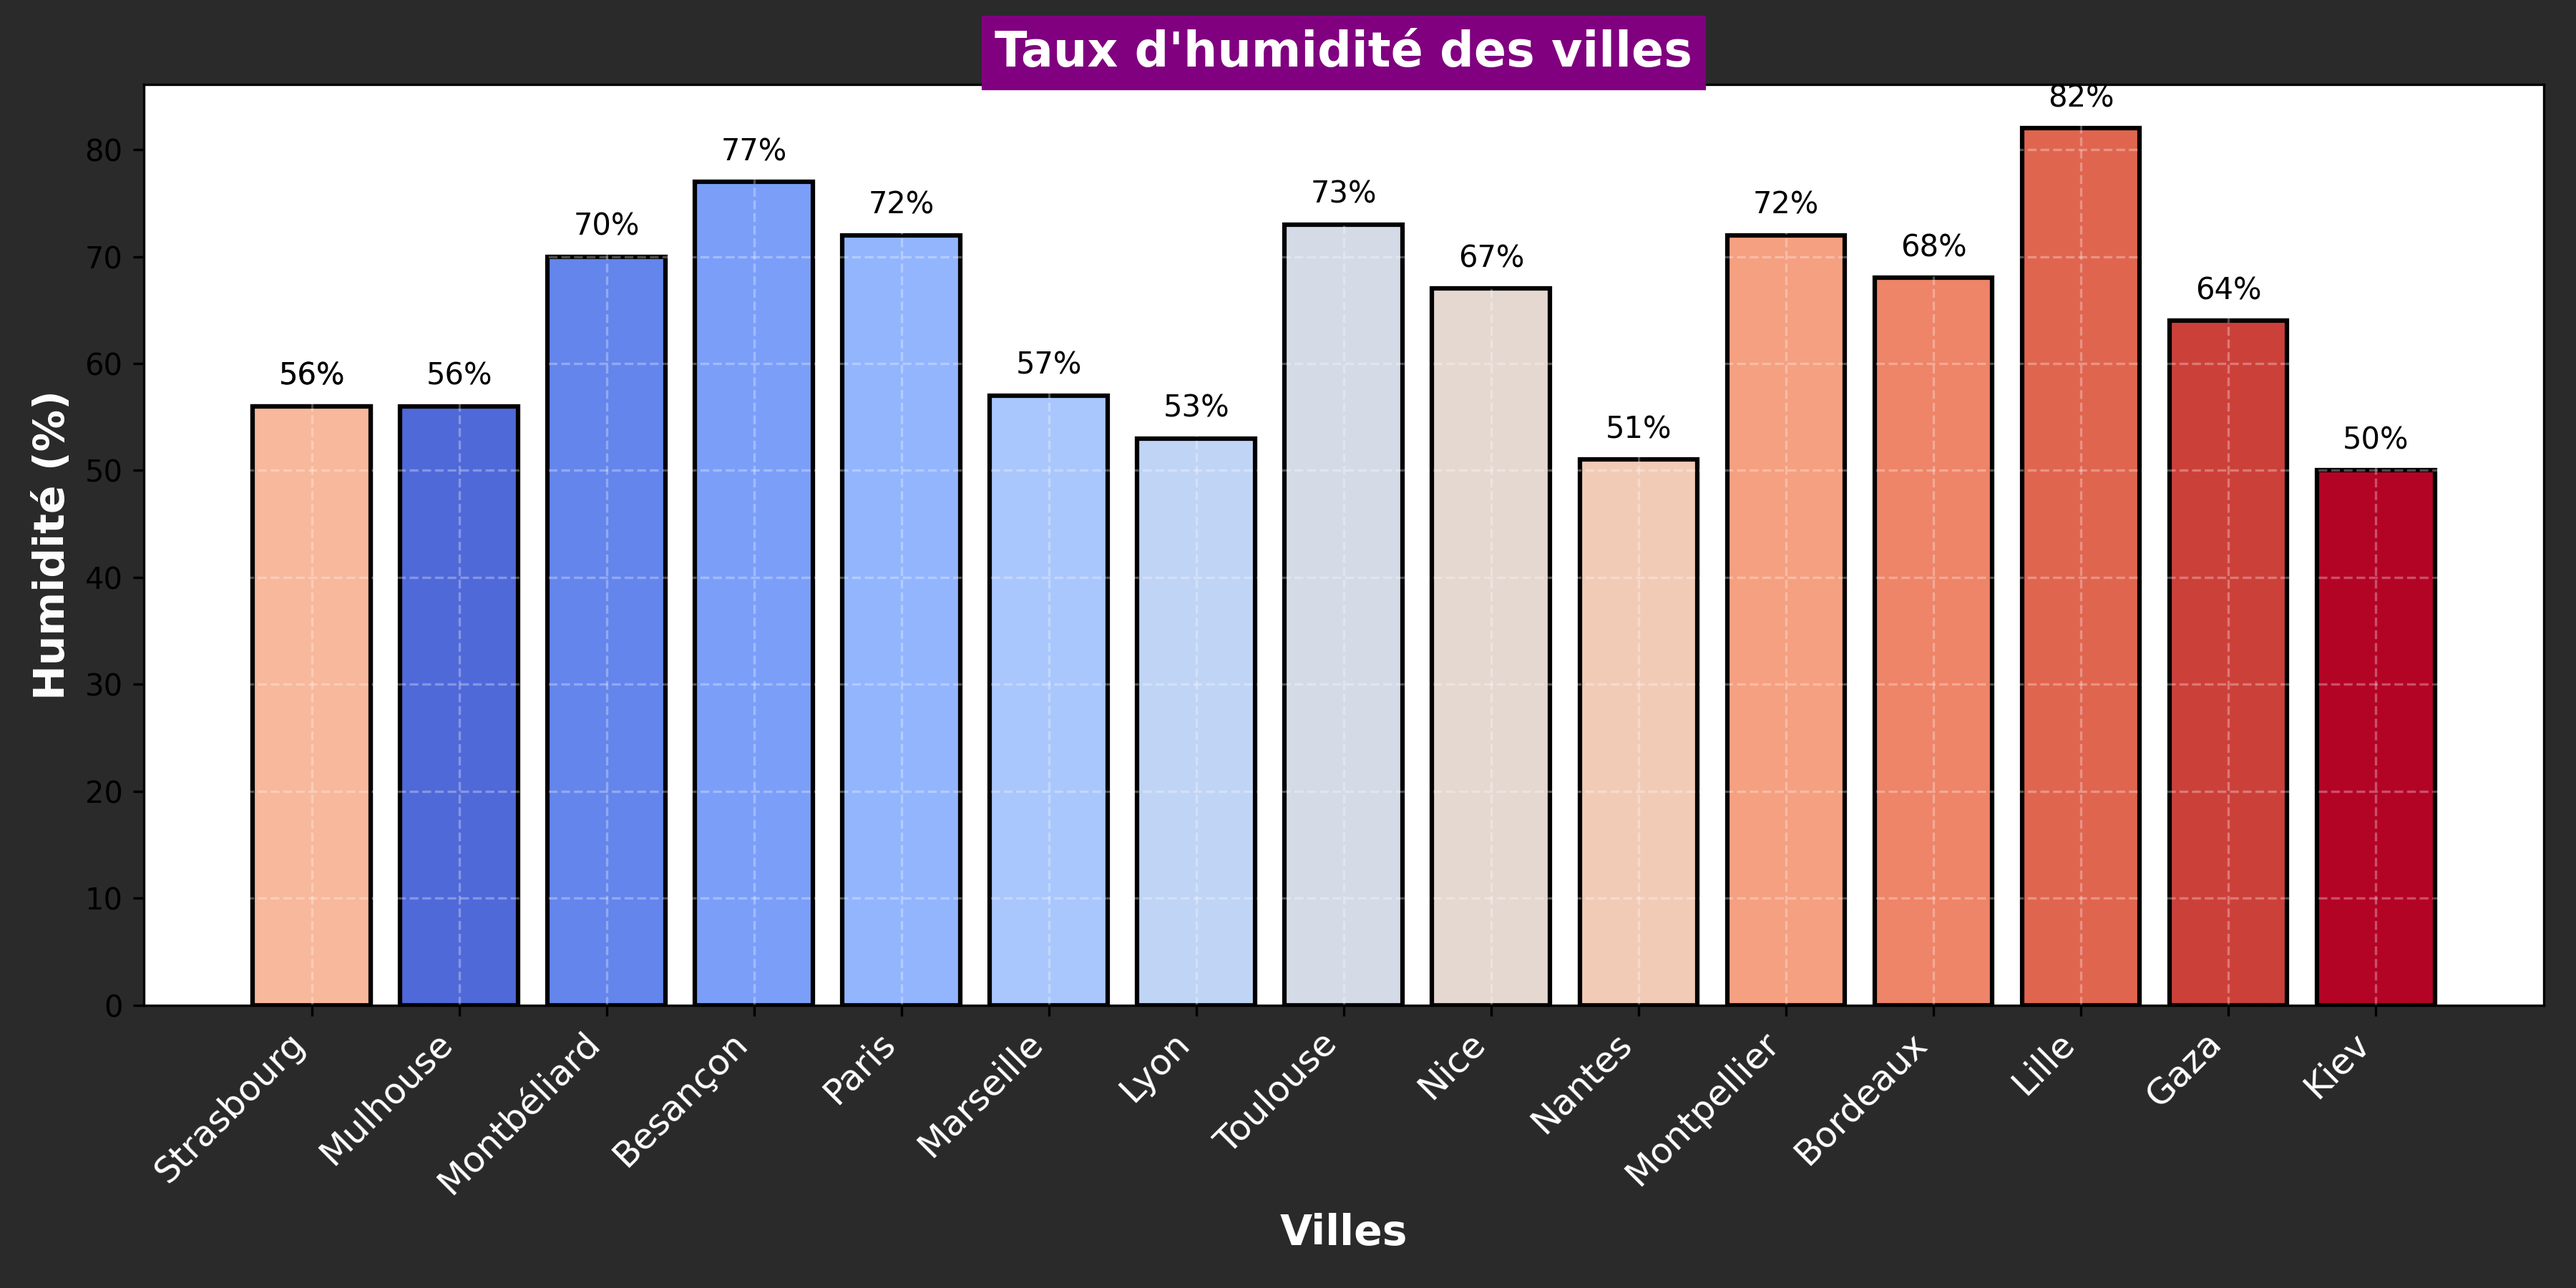
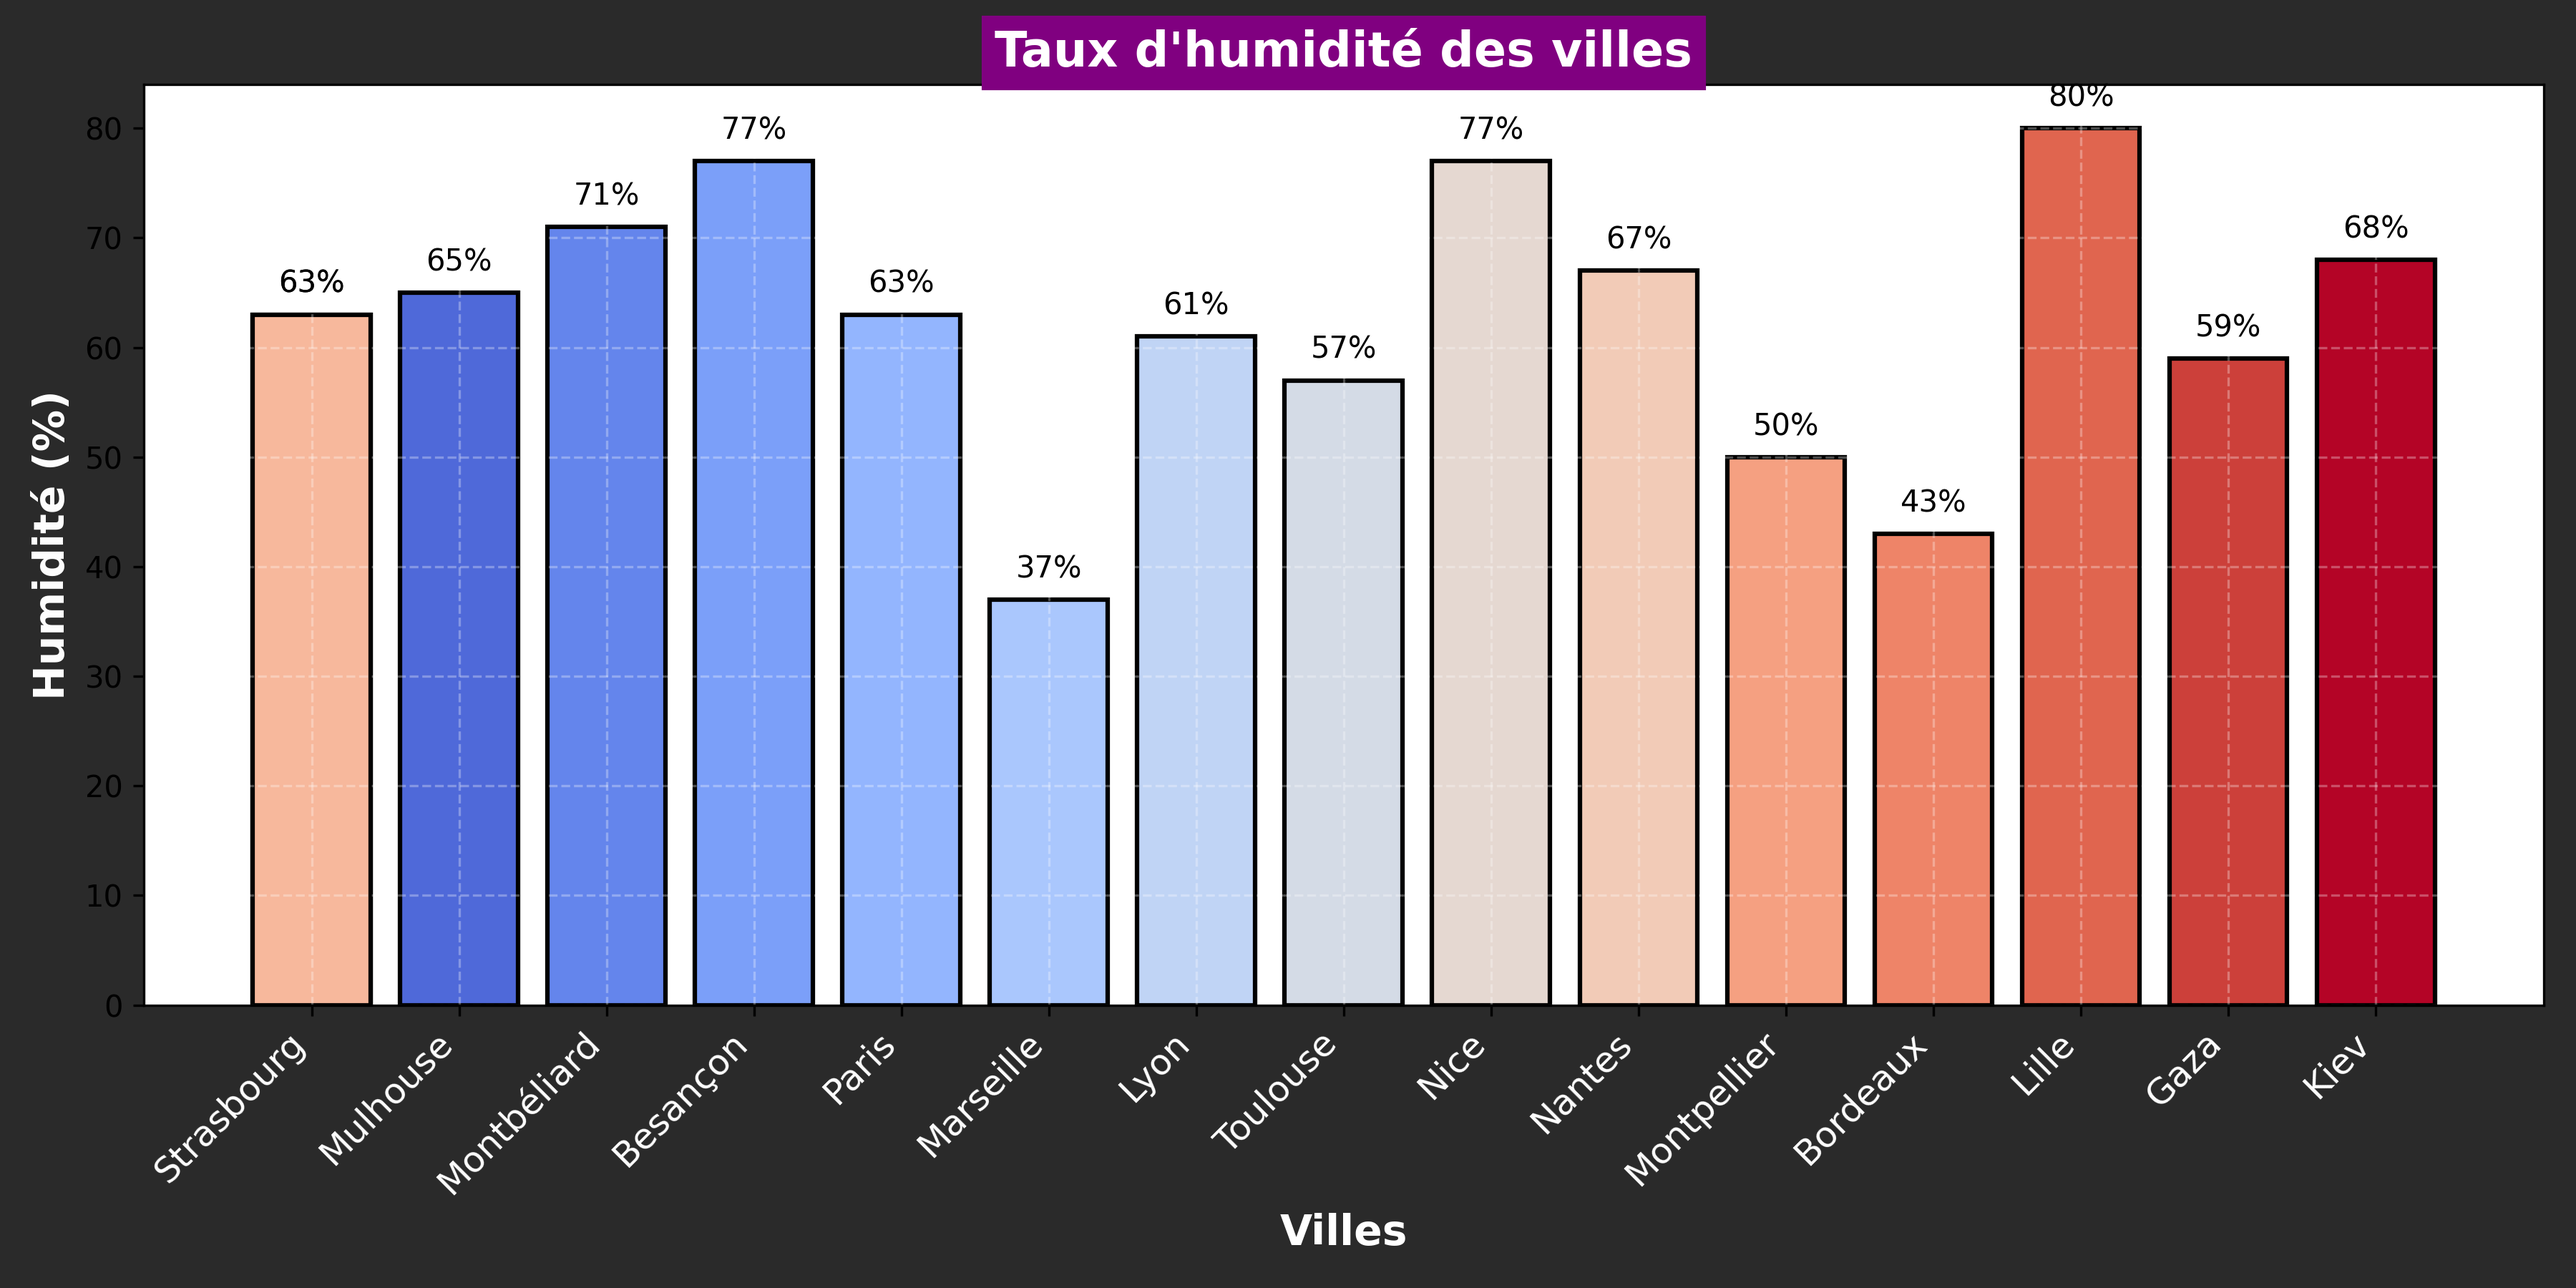
Mise à jour de la météo et ajout du graphique d'humidité

diff --git a/README.md b/README.md
@@ -24,103 +24,103 @@ Ce repo contient plusieurs workflows GitHub Actions :
 ## Météo actuelle :
 ## Météo des grandes villes + Gaza et Kiev 🌍
 
-🕒 Mise à jour : 04/07/2025 08:19:08
+🕒 Mise à jour : 05/07/2025 08:16:56
 
 ### 🌍 Strasbourg ☀
 **Conditions :** ciel dégagé
-**Température :** 19.95°C
-**Humidité :** 56%
-**Vent :** 3.09 m/s
+**Température :** 18°C
+**Humidité :** 63%
+**Vent :** 1.54 m/s
 
 ### 🌍 Mulhouse 🌥
-**Conditions :** nuageux
-**Température :** 19.13°C
-**Humidité :** 56%
-**Vent :** 3.6 m/s
+**Conditions :** peu nuageux
+**Température :** 18.37°C
+**Humidité :** 65%
+**Vent :** 0 m/s
 
-### 🌍 Montbéliard 🌥
-**Conditions :** nuageux
-**Température :** 19.43°C
-**Humidité :** 70%
-**Vent :** 1.7 m/s
+### 🌍 Montbéliard ☀
+**Conditions :** ciel dégagé
+**Température :** 18.88°C
+**Humidité :** 71%
+**Vent :** 0.95 m/s
 
-### 🌍 Besançon 🌥
-**Conditions :** nuageux
-**Température :** 16.61°C
+### 🌍 Besançon ☀
+**Conditions :** ciel dégagé
+**Température :** 17.72°C
 **Humidité :** 77%
-**Vent :** 1.26 m/s
+**Vent :** 0.29 m/s
 
 ### 🌍 Paris ☀
 **Conditions :** ciel dégagé
-**Température :** 16.12°C
-**Humidité :** 72%
-**Vent :** 3.09 m/s
+**Température :** 16.57°C
+**Humidité :** 63%
+**Vent :** 2.06 m/s
 
 ### 🌍 Marseille 🌥
-**Conditions :** nuageux
-**Température :** 25.29°C
-**Humidité :** 57%
-**Vent :** 1.38 m/s
+**Conditions :** couvert
+**Température :** 26.4°C
+**Humidité :** 37%
+**Vent :** 1.47 m/s
 
-### 🌍 Lyon 🌥
-**Conditions :** partiellement nuageux
-**Température :** 19.95°C
-**Humidité :** 53%
-**Vent :** 1.24 m/s
-
-### 🌍 Toulouse ☀
+### 🌍 Lyon ☀
 **Conditions :** ciel dégagé
-**Température :** 22.99°C
-**Humidité :** 73%
-**Vent :** 3.6 m/s
+**Température :** 17.25°C
+**Humidité :** 61%
+**Vent :** 0.98 m/s
+
+### 🌍 Toulouse 🌥
+**Conditions :** partiellement nuageux
+**Température :** 23.99°C
+**Humidité :** 57%
+**Vent :** 4.12 m/s
 
 ### 🌍 Nice 🌥
-**Conditions :** partiellement nuageux
-**Température :** 22.5°C
-**Humidité :** 67%
-**Vent :** 0.48 m/s
+**Conditions :** nuageux
+**Température :** 20.83°C
+**Humidité :** 77%
+**Vent :** 0.62 m/s
 
 ### 🌍 Nantes ☀
 **Conditions :** ciel dégagé
 **Température :** 16.96°C
-**Humidité :** 51%
-**Vent :** 4.12 m/s
+**Humidité :** 67%
+**Vent :** 1.03 m/s
 
 ### 🌍 Strasbourg ☀
 **Conditions :** ciel dégagé
-**Température :** 19.95°C
-**Humidité :** 56%
-**Vent :** 3.09 m/s
+**Température :** 18°C
+**Humidité :** 63%
+**Vent :** 1.54 m/s
 
 ### 🌍 Montpellier ☀
 **Conditions :** ciel dégagé
-**Température :** 26.39°C
-**Humidité :** 72%
-**Vent :** 2.06 m/s
+**Température :** 25.83°C
+**Humidité :** 50%
+**Vent :** 3.6 m/s
 
-### 🌍 Bordeaux 🌧
-**Conditions :** pluie modérée
+### 🌍 Bordeaux ☀
+**Conditions :** ciel dégagé
 **Température :** 21.15°C
-**Humidité :** 68%
-**Vent :** 2.06 m/s
+**Humidité :** 43%
+**Vent :** 1.54 m/s
 
 ### 🌍 Lille ☀
 **Conditions :** ciel dégagé
-**Température :** 14.12°C
-**Humidité :** 82%
-**Vent :** 0 m/s
+**Température :** 15.99°C
+**Humidité :** 80%
+**Vent :** 2.57 m/s
 
 ### 🌍 Gaza ☀
 **Conditions :** ciel dégagé
-**Température :** 29.25°C
-**Humidité :** 64%
-**Vent :** 1.84 m/s
+**Température :** 28.18°C
+**Humidité :** 59%
+**Vent :** 2.32 m/s
 
-### 🌍 Kiev ☀
-**Conditions :** ciel dégagé
-**Température :** 25.46°C
-**Humidité :** 50%
-**Vent :** 3.98 m/s
+### 🌍 Kiev 🌥
+**Conditions :** partiellement nuageux
+**Température :** 21.51°C
+**Humidité :** 68%
+**Vent :** 0.45 m/s
 
 <p align='center'><img src='https://raw.githubusercontent.com/khoa083/khoa/main/Khoa_ne/img/Rainbow.gif' width='100%' style='border-radius: 5px; border: 3px solid #39FF14; box-shadow: 0 0 10px #39FF14, 0 0 20px #39FF14;' /></p>
 
